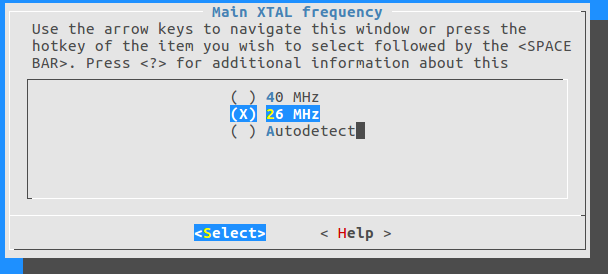
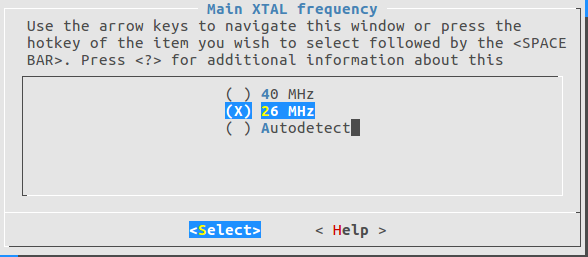
Updated the doc images

Changed region(s): [[0.0, 0.0, 1.0, 1.0]]

diff --git a/docs/index.md b/docs/index.md
@@ -64,8 +64,6 @@ The firmware for the HeartyPatch's on-board Espressif ESP32 chip uses the [esp-i
 
   Setup guides for these components are available on the [ESP-IDF documentation site](https://esp-idf.readthedocs.io/en/v2.1/get-started/index.html).
 
-`Please make sure that correct version of all of the above tools are installed before proceeding.`
-
 * Clone our [Github repository](https://github.com/Protocentral/protocentral_heartypatch) of code for the ESP32:
 
   `git clone https://github.com/Protocentral/protocentral_heartypatch.git`
@@ -73,6 +71,8 @@ The firmware for the HeartyPatch's on-board Espressif ESP32 chip uses the [esp-i
   [or download a zip file of the latest master branch](https://github.com/Protocentral/protocentral_heartypatch/archive/master.zip).
 
 * Download this zip file, rename it to whatever you want to. Change to this directory and then start building.
+
+`Please make sure that correct version of all of the above tools are installed before proceeding.`
 
 The folder "heartypatch-ble" in the "Firmware" contains the  code of preloaded firmware on the heartypatch board, which calculates RR interval, heart rate and time domain parameters for hrv analysis and sends them through BLE.
 
@@ -85,14 +85,17 @@ Now that you have the code and ready to build, you will need to configure the bu
   ![menuconfig](images/makemenuconfig.png)
 
 * Configure your serial port under *Serial flasher config -> Default serial port*
+
   ![port](images/serialport.png)
 
-* Use the *Heartypatch configuration* to enable ble mode.
+* Use the *Heartypatch configuration* to enable BLE mode
+
   ![heartypatch-config](images/heartypatch-config-ble.png)
 
 BLE mode at this time does not support ECG stream since the MAX30003 sensor is configured for R-R detection only. By enabling the wifi, you may get hr and rr values through TCP in the Heartypatch GUI. For ECG stream you may use the heartypatch-stream-tcp code [protocentral-heartypatch/firmware/heatypatch-stream-tcp]
 
 * Navigate to component config -> esp32-specific ->main XTAL frequency and select 26 Mhz as the board crystal
+
   ![xtal](images/main-xtal-frequency.png)
 
 * Save the configuration by selecting `<save>` and close menuconfig
